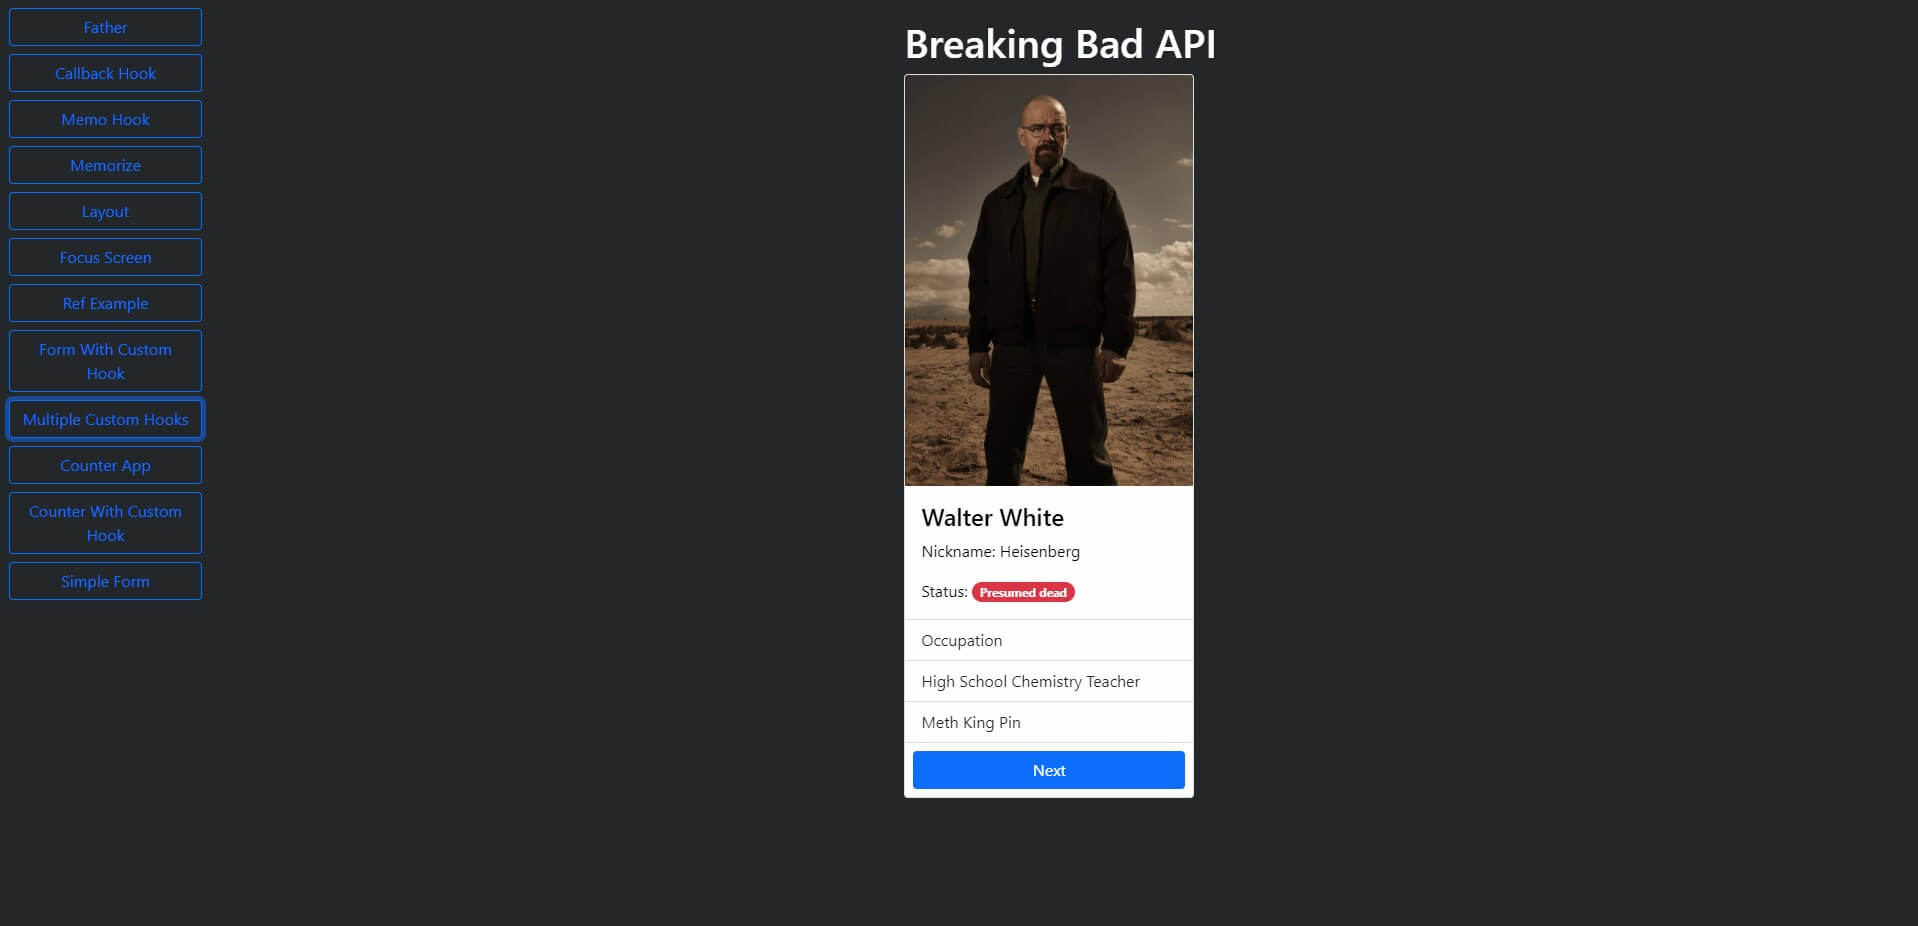
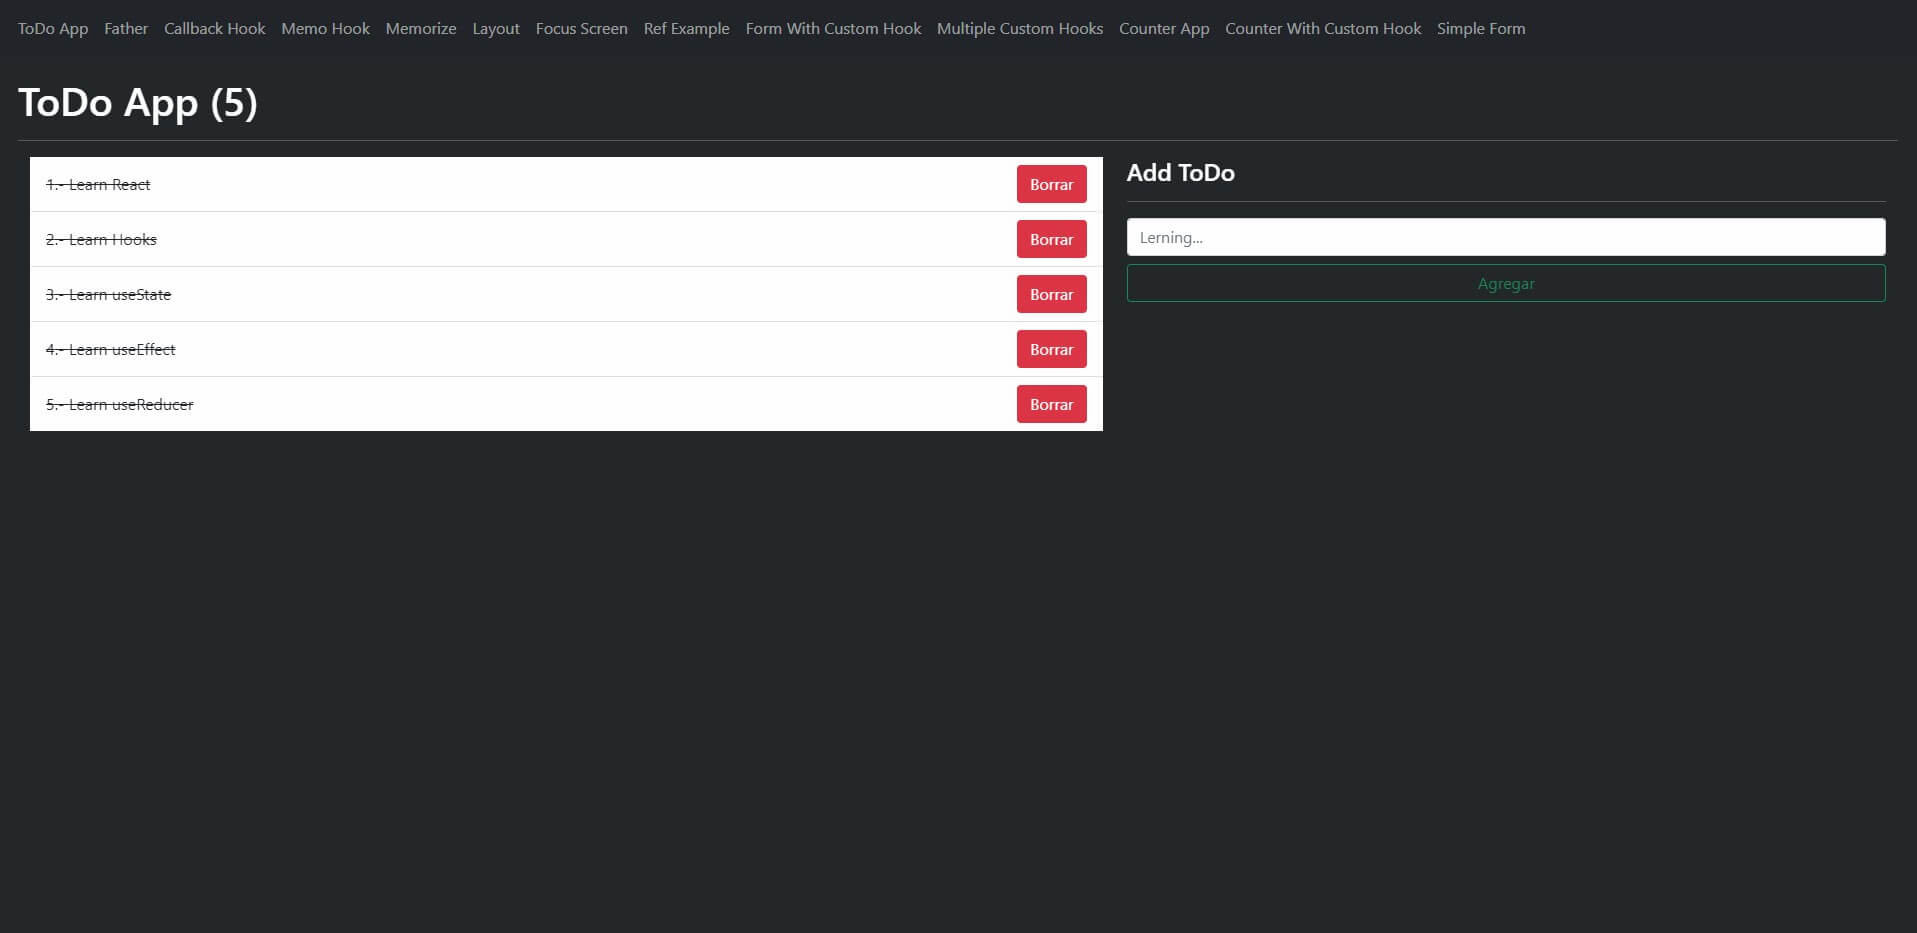
Se agregó css para menu con bootstrap

Changed region(s): [[0.0, 0.0, 0.9849, 0.8769], [0.2462, 0.0302, 0.3078, 0.0605], [0.3385, 0.0302, 0.3693, 0.0605]]

diff --git a/src/components/NavBar.js b/src/components/NavBar.js
@@ -1,0 +1,37 @@
+/** 
+ * @author: alexandercddev
+ * @description: 
+ * @date: 04/Octubre/2021
+**/
+import React from 'react'
+import { Link } from 'react-router-dom'; 
+import { options } from '../utils/information';
+
+export const NavBar = () => {
+    return (
+        <nav className="navbar navbar-expand-lg navbar-dark bg-dark">
+            <div className="container-fluid">
+                <button className="navbar-toggler" type="button" data-bs-toggle="collapse" data-bs-target="#navbarSupportedContent" aria-controls="navbarSupportedContent" aria-expanded="false" aria-label="Toggle navigation">
+                    <span className="navbar-toggler-icon"></span>
+                </button>
+                <div className="collapse navbar-collapse" id="navbarSupportedContent">
+                    <ul className="navbar-nav me-auto mb-2 mb-lg-0">
+                        {options.map( (item, index) => (
+                            <li className="nav-item" key={`link-${index}`} >
+                                <Link  
+                                    
+                                    to={item.to} 
+                                    className="nav-link" 
+                                >
+                                    {item.text}
+                                </Link>
+                            </li>
+                        ))}  
+                    </ul> 
+                </div>
+            </div>
+        </nav>
+    );
+}
+
+export default NavBar;

diff --git a/src/components/ToDoReducer.js b/src/components/ToDoReducer.js
@@ -49,21 +49,20 @@ export const ToDoReducer = () => {
     } 
 
     return (
-        <div 
-            style={{width: '100%'}}
+        <div   
             className="animate__animated animate__backInDown"
         >
             <h1>ToDo App ({ toDo.length })</h1>
             <hr></hr>
             <div className="row">
-                <div className="col-7" >
+                <div className="col-md-7" >
                     <ToDoList 
                         toDo={toDo}
                         handleDelete={handleDelete}
                         handleTogggle={handleTogggle}
                     />
                 </div>
-                <div className="col-5">
+                <div className="col-md-5">
                     <h4>Add ToDo</h4>
                     <hr></hr>
                     <ToDoAdd 

diff --git a/src/components/HookApp.js b/src/components/HookApp.js
@@ -4,19 +4,20 @@
  * @date: 30/Septiembre/2021
 **/
 import React from 'react';
-import { Route, Switch } from 'react-router-dom';
+import { Route, Switch, Redirect } from 'react-router-dom';
 import { options } from '../utils/information';
-import Header from './Header';  
+import NavBar from './NavBar';  
 
 export const HookApp = () => {
     return (
         <div className="container-div">
-            <Header />
+            <NavBar />
             <main > 
                 <Switch>  
                     {options.map( (item, index) => (
                         <Route key={`route-${index}`} exact path={item.to} component={item.component}></Route>  
                     ))}
+                    <Redirect to="/" />
                 </Switch>
             </main>
         </div>

diff --git a/src/assets/sass/index.scss b/src/assets/sass/index.scss
@@ -10,13 +10,11 @@ body {
     background: #23272a;
 }
 
-header {
+.container-div{
     display: flex; 
     flex-direction: column;   
     color: #FFFF;
-    background: #23272a;
-    margin-top: 10px;
-    margin-left: 10px;
+    background: #23272a;   
 }
 
 button {
@@ -47,20 +45,15 @@ button {
     display: flex;
     justify-content: flex-end;
 }
+  
+.card {
+    max-width: 290px;
+}
 
-.container-div {
-    display: flex;
+.row {
+    margin: 0px; 
 }
 
 main {
-    width: 100%;
-    margin: 20px;
-    display: flex; 
-    flex-direction: column;
-    justify-content: center;
-    align-items: center;
-}
-
-.card {
-    max-width: 290px;
+    padding: 20px;
 }

diff --git a/public/index.html b/public/index.html
@@ -22,4 +22,5 @@
     <noscript>You need to enable JavaScript to run this app.</noscript>
     <div id="root"></div> 
   </body>
+  <script src="https://cdn.jsdelivr.net/npm/bootstrap@5.1.2/dist/js/bootstrap.bundle.min.js" integrity="sha384-kQtW33rZJAHjgefvhyyzcGF3C5TFyBQBA13V1RKPf4uH+bwyzQxZ6CmMZHmNBEfJ" crossorigin="anonymous"></script>
 </html>
